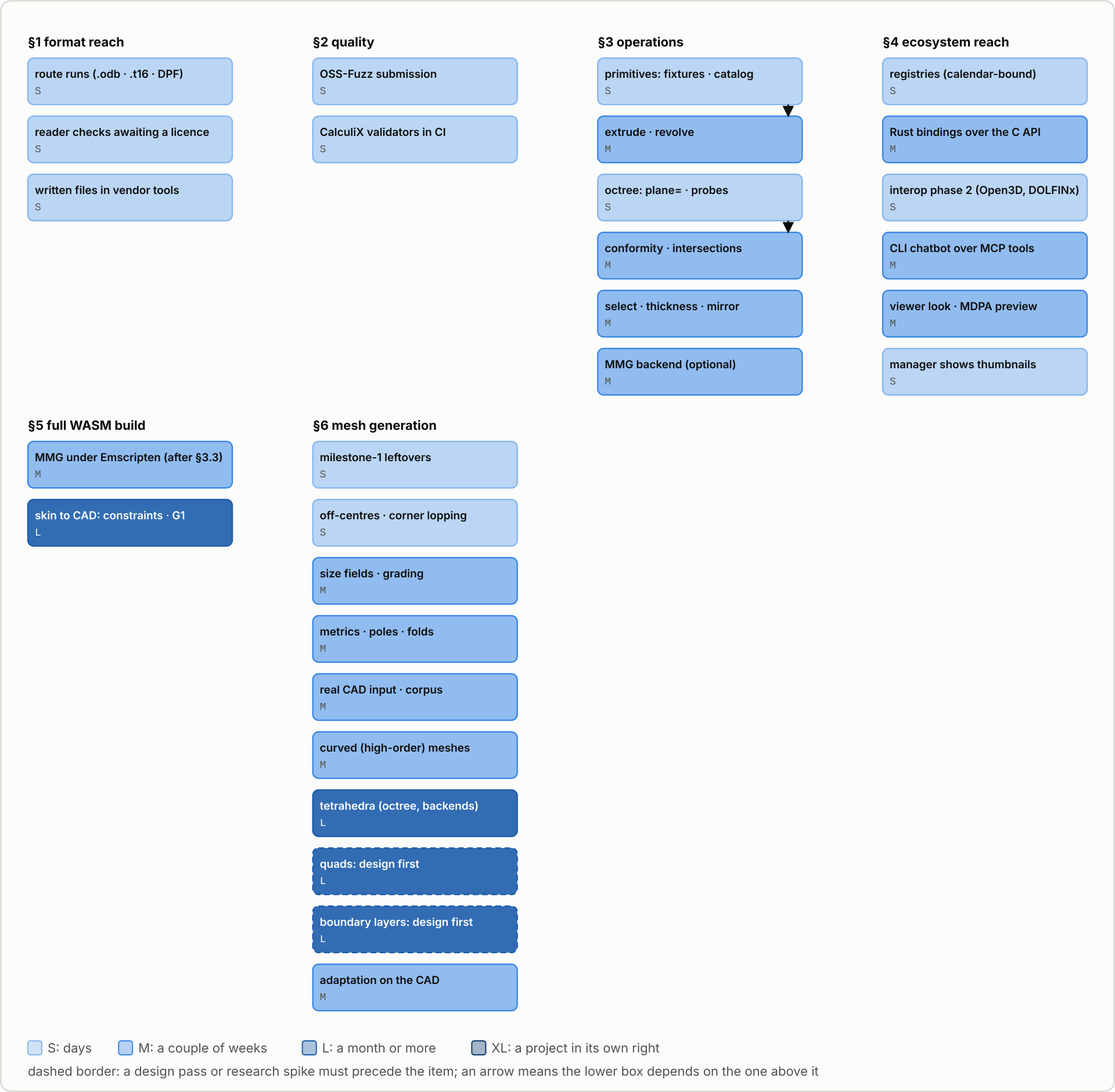
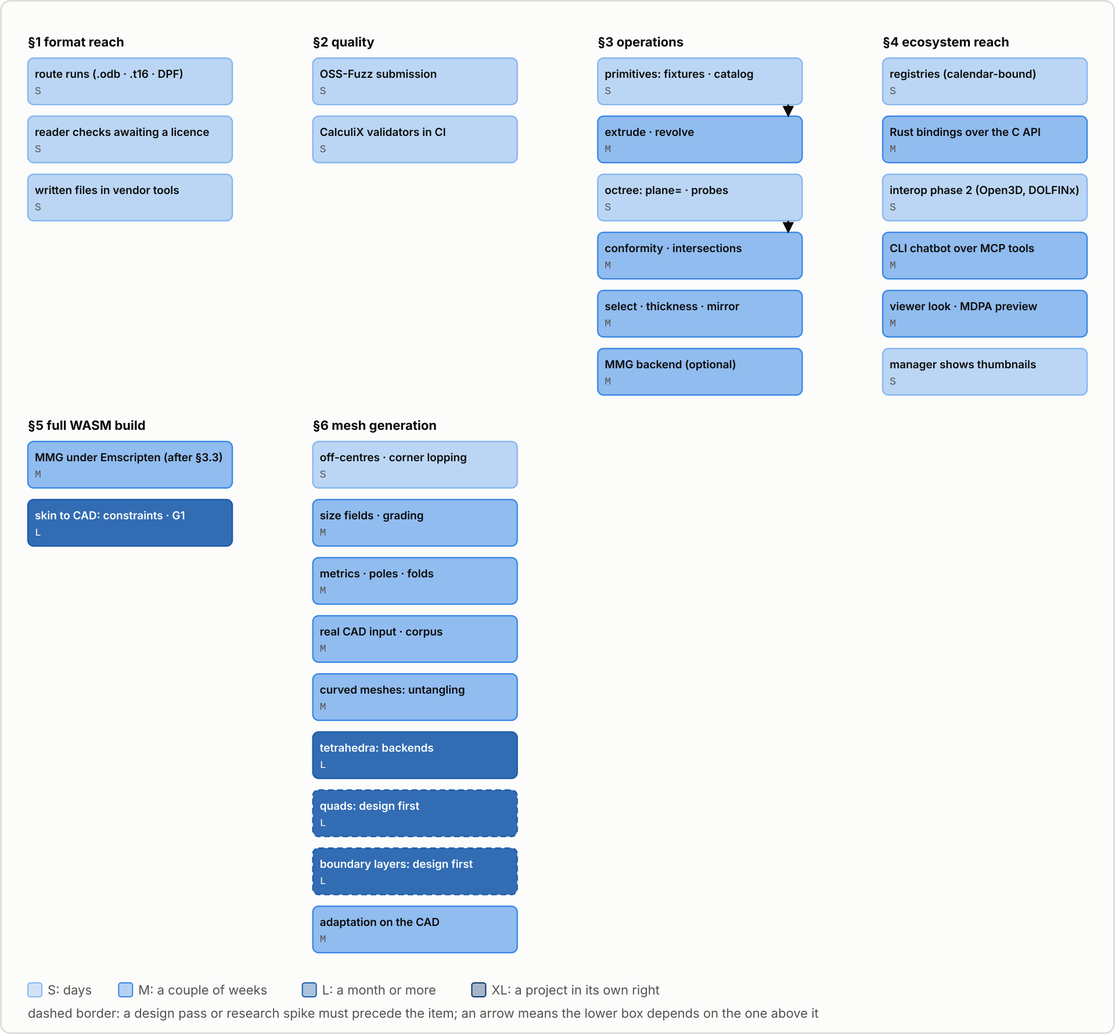
roadmap: close 6.1 and 6.7.1, park 6.6.2 with its measurements
6.1 (the model through the pipeline, one Gmsh physical group per face)
and 6.7.1 (the volume route through octree_mesh) landed and are removed.
6.6.2 was implemented and measured: placing interior nodes at the surface
point nearest the chord lowers quadratic errors by 2 to 20% but raises the
cubic ones 1.5 to 3 times (the roof's cubic L2 order from 3.93 to 3.41),
because the parameter placement is what keeps every node the image of one
lattice under one smooth map. It is recorded as measured and parked, like
the off-centres of 6.2.9, and doc/mesh_cad.md no longer blames the
placement for the cubic area order. The roadmap map is regenerated.

Claude-Session: https://claude.ai/code/session_01TT2up2NQmarWJim25wbSxE

diff --git a/doc/diagrams/figures/flows.py b/doc/diagrams/figures/flows.py
@@ -1064,13 +1064,12 @@ def roadmap_map():
         (
             "§6 mesh generation",
             [
-                ("milestone-1 leftovers", "S"),
                 ("off-centres · corner lopping", "S"),
                 ("size fields · grading", "M"),
                 ("metrics · poles · folds", "M"),
                 ("real CAD input · corpus", "M"),
-                ("curved (high-order) meshes", "M"),
-                ("tetrahedra (octree, backends)", "L"),
+                ("curved meshes: untangling", "M"),
+                ("tetrahedra: backends", "L"),
                 ("quads: design first", "L"),
                 ("boundary layers: design first", "L"),
                 ("adaptation on the CAD", "M"),

diff --git a/doc/roadmap.md b/doc/roadmap.md
@@ -1,6 +1,6 @@
 # meshio++ roadmap
 
-Status at time of writing: **v17.15.0**, ABI 34. What ships is listed where it is documented rather than counted here, where counts went stale: the formats in [supported formats](./formats.md) and the [conformance matrix](./conformance.md), the operations in [architecture](./architecture.md#the-operations-layer), the language surfaces in the [C API](./c_api.md), [Fortran](./fortran.md), [Julia](./julia.md), [R](./r.md) and [WebAssembly](./wasm.md) pages.
+Status at time of writing: **v17.17.0**, ABI 34. What ships is listed where it is documented rather than counted here, where counts went stale: the formats in [supported formats](./formats.md) and the [conformance matrix](./conformance.md), the operations in [architecture](./architecture.md#the-operations-layer), the language surfaces in the [C API](./c_api.md), [Fortran](./fortran.md), [Julia](./julia.md), [R](./r.md) and [WebAssembly](./wasm.md) pages.
 
 This document lists what is *not* built. Nothing here duplicates shipped functionality; where a feature partially exists, the shipped half is named and the gap is stated explicitly. Release history lives in [`CHANGELOG.md`](https://github.com/loumalouomega/meshioplusplus/blob/main/CHANGELOG.md), not here.
 
@@ -185,7 +185,7 @@ The full build shipped in v17.2.0 ([lean and full builds](./wasm.md#lean-and-ful
 
 ## 6. Mesh generation
 
-*Admission: generating a mesh from a CAD model or a boundary, rather than transforming a mesh that exists. The first milestone shipped in v17.13.0: [`mesh_cad_surface`](./mesh_cad.md) ([plan](./mesh_cad_plan.md)) triangulates a B-rep (`BrepInfo`: a Kratos CAD JSON read, or STEP and IGES through OpenCASCADE) into one conforming, watertight surface mesh at a single global size, with no CAD kernel. Each edge is sampled once by arc length and shared by the faces that use it. Each face is a constrained Delaunay triangulation of its parameters, mapped by the Cholesky factor of its mean first fundamental form, filled with an equilateral lattice and lifted onto the surface. Every decision is one of Shewchuk's exact predicates (`detail/predicates`), and a face that cannot be meshed is reported by status and reason. The planar triangulator is public as `triangulate_polygon_2d`. v17.14.0 closed most of what the milestone left: a face's embedded edges are constrained segments of its triangulation, a closed edge whose uses start at different points is rotated onto one corner, loops that cross only at a coarse size are split until they do not, and two fuzz targets cover the mesher and the planar triangulator. v17.15.0 added Delaunay refinement to a minimum angle measured on the surface, shared across faces, and guarded smoothing (6.2), and measures a mesh by its interpolation error (6.11). v17.16.0 added curved quadratic and cubic triangles whose nodes lie on the geometry, each proved valid everywhere inside by a Bézier bound on its Jacobian or kept straight-sided (6.6). What follows is ordered by what each item unlocks. Native work stops at surfaces, their quality and their sizing; volume meshing, quadrangulation and boundary layers stay with optional backends unless a design pass narrows the [non-goal](#non-goals-and-decisions-taken).*
+*Admission: generating a mesh from a CAD model or a boundary, rather than transforming a mesh that exists. The first milestone shipped in v17.13.0: [`mesh_cad_surface`](./mesh_cad.md) ([plan](./mesh_cad_plan.md)) triangulates a B-rep (`BrepInfo`: a Kratos CAD JSON read, or STEP and IGES through OpenCASCADE) into one conforming, watertight surface mesh at a single global size, with no CAD kernel. Each edge is sampled once by arc length and shared by the faces that use it. Each face is a constrained Delaunay triangulation of its parameters, mapped by the Cholesky factor of its mean first fundamental form, filled with an equilateral lattice and lifted onto the surface. Every decision is one of Shewchuk's exact predicates (`detail/predicates`), and a face that cannot be meshed is reported by status and reason. The planar triangulator is public as `triangulate_polygon_2d`. v17.14.0 closed most of what the milestone left: a face's embedded edges are constrained segments of its triangulation, a closed edge whose uses start at different points is rotated onto one corner, loops that cross only at a coarse size are split until they do not, and two fuzz targets cover the mesher and the planar triangulator. v17.15.0 added Delaunay refinement to a minimum angle measured on the surface, shared across faces, and guarded smoothing (6.2), and measures a mesh by its interpolation error (6.11). v17.16.0 added curved quadratic and cubic triangles whose nodes lie on the geometry, each proved valid everywhere inside by a Bézier bound on its Jacobian or kept straight-sided (6.6). v17.17.0 closed what the first milestone left (6.1): the pipeline carries the CAD model a read returns to a `MeshCadSurface` step, and Gmsh 4.1 output gives each face its own physical surface; it documented and measured the volume route through `octree_mesh` (6.7.1), and measured surface-placed interior nodes on the curved elements and parked them (6.6.2). What follows is ordered by what each item unlocks. Native work stops at surfaces, their quality and their sizing; volume meshing, quadrangulation and boundary layers stay with optional backends unless a design pass narrows the [non-goal](#non-goals-and-decisions-taken).*
 
 The order follows the one production CAD meshers settled on, bottom-up from model vertices to edges, faces and volumes (Schöberl 1997, Geuzaine and Remacle 2009, the OpenCASCADE mesh guide), and the order in which the Delaunay literature builds its guarantees: a valid constrained triangulation first (shipped), then a bound on angles by refinement (6.2, shipped), then a size that varies (6.3), then a metric that varies inside a face (6.4), each needing the one before (Cheng, Dey and Shewchuk 2012, chapters 1 to 6; Frey and George 2008). Robustness on real models (6.5) is measured beside all of them, since it is where meshers lose most of their failures in practice. The citations are listed under [references](#references-for-mesh-generation) at the end of this section; an author and year in an item points there.
 
@@ -196,10 +196,6 @@ Landing an item:
 - Growing `MeshCadSurfaceOptions` is a layout change. ABI 34 (v17.15.0) laid out the fields of 6.2, 6.3, 6.4 and 6.6 in one bump (`mInsertion`, `mGrading`, `mCurvatureDeviation`, `mCellsAcrossGaps`, `mMetric`, `mPoleRings`, `mReparamConditionNumber`, `mOrder`), refused by name until their item lands, so landing one needs no further bump (`mOrder` landed in v17.16.0); a field none of them names takes the next. The C struct grows within its tail: `int64_t reserved[3]` (24 bytes) is left in the options and `reserved[3]` in the report, scalars only. Arrays (a size per face, a background field) need their own entry points, never the struct.
 - Test the kernel in C++ (`tests/cpp/test_mesh_cad.cpp`, `test_cdt2d.cpp`) as well as through Python, on the hand-built solids of `tests/cpp/brep_solids.hpp` and the CAD JSON fixtures of `tools/gen_cad_json_fixtures.py`. Keep the OpenCASCADE oracle (`MeshCadOcct.*`) passing in both OCCT CI legs.
 - Write an algorithm from its paper, never from another library's code, and name the paper in the implementing header and in `doc/mesh_cad.md#references` (the predicates precedent, [THIRD_PARTY_NOTICES](https://github.com/loumalouomega/meshioplusplus/blob/main/THIRD_PARTY_NOTICES.md)). An item that states a guarantee from a paper also states the paper's preconditions (input angles, a size function's Lipschitz constant) and tests both sides of them.
-
-- **6.1 What the first milestone leaves.** Each of these is reported today, never meshed wrong ([limitations](./mesh_cad.md#limitations)). **S each**
-  - **6.1.1 The model through the pipeline.** The pipeline carries a `Mesh`, not the `BrepInfo` a CAD read returns beside it, so `MeshCadSurface` (like the `iga_*` operations) is refused by name. Carrying the read's side channel from `Input` to the first step that asks for it, and dropping it at the first step that changes the mesh, would give both a pipeline step. Shared with the isogeometric layer. **S–M**
-  - **6.1.2 One physical group per face in Gmsh output.** Every face is in one `triangle` block, so the Gmsh writer cannot give each face its own physical group, and the faces travel only as `cad:face` data ([output](./mesh_cad.md#output-and-report)). The `face:<k>` cell regions already name them. **Verify first** whether the Gmsh writer maps cell regions to physical groups; if it does, the gap is that `mesh_cad_surface`'s regions do not reach it, and if it does not, the writer gains that mapping, which any region-carrying mesh needs. Probe: a box meshed and written to Gmsh 4.1 opens with six named physical surfaces.
 
 - **6.2 Quality: what refinement leaves.** v17.15.0 refines every face by Ruppert's algorithm with Chew's circumcentres, judged on the surface, with boundary splits shared across faces, concentric shells around small input angles, a deterministic worst-first order and guarded Laplacian or ODT smoothing (`min_angle`, `smooth_iterations`; [how it works](./mesh_cad.md#how-it-works)). One piece remains, and off-centres were measured and parked. **S–M**
   - **6.2.3 Small input angles on curved input: the stated bound.** Concentric shells and the terminator keep refinement finite on the plane, and each corner under 60 degrees is reported with the smallest angle it forces, measured. Pav and Walkington (2005) prove termination for curved input with small angles by lopping the corners off first, the case the curved trims of a CAD face are, and bound the angles they cannot fix; landing their corner lopping would let the report state that bound beside the measured one instead of leaving termination on curved faces to `max_points` and the insertion-radius declines. Probe: a face with a 5-degree corner between two circular trims ends under the stated bound with no budget warning.
@@ -229,12 +225,11 @@ Landing an item:
   - **6.5.5 What a corpus run measures.** Per model: faces meshed and failed by status, `num_open_edges` on closed solids, `max_edge_gap`, the extreme angles and the [`compute_quality`](./quality.md) histograms (Knupp's algebraic metrics, the scaled Jacobian and aspect ratio; Knupp 2001), the Hausdorff distance to the model sampled densely, points, time and peak memory, beside the same for `BRepMesh` and Gmsh at a matched size. The first published run is the baseline: a change that lowers the success rate or raises a failure class states why in its `CHANGELOG.md` entry, the rule of [landing a performance change](./benchmarks.md#landing-a-performance-change). Probe: the job fails when a model that meshed in the baseline stops meshing, so a regression cannot hide in an average.
   - **6.5.6 A taxonomy of the failures.** Classify every failure of the corpus run by its geometric cause — a gap beyond tolerance, an edge used once, a trim outside its patch, a self-intersecting loop, a degenerate patch, an edge below tolerance that is not a pole — from the face reports and the measured gaps, and publish the counts. The CAD-repair literature has catalogued these classes for decades (Butlin and Stops 1996), and a count per class is what decides whether 6.5.1, 6.5.2 or 6.4.4 is the next item worth landing. It changes no output, so it can land with 6.5.3.
 
-- **6.6 Curved surface meshes: what is left.** v17.16.0 writes `order` 2 and 3 as `triangle6` and `triangle10` (with `line3` and `line4`) whose nodes lie on the exact surfaces and edges, each element proved valid everywhere inside by a Bézier bound on its Jacobian (Johnen, Remacle and Geuzaine 2013) or kept straight-sided and counted ([curved elements](./mesh_cad.md#how-it-works)). Area and volume converge at order 4 for both, and interpolation at the optimal orders 3 and 4 on the Scordelis–Lo roof; what is left is where the nodes go and what becomes of an element that folds.
-  - **6.6.2 Interior mid-edge nodes.** The parameter midpoint lifts to a point that is not the surface's midpoint of the edge where the metric varies, which skews the element. Place an interior mid-edge node at the point of the surface closest to the 3-D chord's midpoint, a Newton step from the parameter midpoint (Sherwin and Peiró 2002), and fall back to the parameter midpoint when the step leaves the triangle's parameter image. The cubic elements fall short today, plausibly from this placement: their area and volume converge at order 4, not 6, and their interpolation on the sphere at 3.7 away from the poles, not 4. Probe: on the Scordelis–Lo roof the mid-edge nodes' distances to both ends differ by less than a stated fraction of the edge, and the sphere's cubic orders rise.
+- **6.6 Curved surface meshes: what is left.** v17.16.0 writes `order` 2 and 3 as `triangle6` and `triangle10` (with `line3` and `line4`) whose nodes lie on the exact surfaces and edges, each element proved valid everywhere inside by a Bézier bound on its Jacobian (Johnen, Remacle and Geuzaine 2013) or kept straight-sided and counted ([curved elements](./mesh_cad.md#how-it-works)). Area and volume converge at order 4 for both, and interpolation at the optimal orders 3 and 4 on the Scordelis–Lo roof; what is left is what becomes of an element that folds; where the interior nodes go was measured and parked (6.6.2).
+  - **6.6.2 Interior mid-edge nodes: measured, parked.** The guess was that the parameter fraction at which an interior edge node is lifted skews the element where the metric varies, and holds the cubic elements to area order 4 and interpolation order 3.7. Placing each interior edge node at the surface point nearest the chord's point at its fraction (Gauss–Newton from the parameter fraction, Sherwin and Peiró 2002), and the cubic face node at the surface point nearest the cubic blend of its edge nodes, was implemented and measured in October 2026 against the parameter placement: quadratic errors fell by 2 to 20% at unchanged orders (the sphere's area at `h = 0.1` from 1.0e-5 to 7.9e-6), and cubic ones rose 1.5 to 3 times (the capped cylinder's area from 3.4e-7 to 1.0e-6, the roof's L2 interpolation order between `h` = 2 and 1 from 3.93 to 3.41); keeping the face node at the parameter centroid instead folded elements near the sphere's poles and dropped the roof's cubic order to 3.1. The parameter placement makes every node the image of one lattice under one smooth map, which the cubic's accuracy rests on, so the shortfall is not the placement. Nothing changed. Worth measuring again on a face whose metric varies by orders of magnitude inside an element, where a lattice in the parameters is no longer close to one on the surface, or with 6.4.1's metric, which changes what the lattice is.
   - **6.6.3 Untangling instead of straightening.** Keeping an invalid element straight-sided loses the geometric accuracy the order bought, at exactly the elements on highly curved boundaries. The follow-up moves interior high-order nodes to maximise the worst scaled Jacobian while boundary nodes stay on the CAD (Toulorge et al. 2013), or treats the mesh as an elastic solid deformed onto the curved boundary (Persson and Peraire 2009; Moxey et al. 2016 for a thermo-elastic variant). Both are optimisation over a mesh the core already holds, so they stay native; a design pass picks one before it starts. **M**
 
-- **6.7 Volume meshes from the watertight surface.** A closed `mesh_cad_surface` result is the input a tetrahedral mesher needs. **L**
-  - **6.7.1 The native route that already exists.** [`octree_mesh`](./octree_mesh.md) meshes the inside of any skin, so `octree_mesh(mesh_cad_surface(model, h))` gives conforming graded tetrahedra today, fitted to the skin by snapping rather than keeping its triangles. Document it in `doc/mesh_cad.md` and notebook 42 with a probe (the sphere's volume within the octree mesher's stated error) before any backend lands. Its stuffed tetrahedra follow isosurface stuffing, whose dihedral angles are bounded away from 0 and 180 degrees by construction (Labelle and Shewchuk 2007); the documentation states that bound beside the boundary error it trades for it.
+- **6.7 Volume meshes from the watertight surface.** A closed `mesh_cad_surface` result is the input a tetrahedral mesher needs. The native route through [`octree_mesh`](./octree_mesh.md) is documented and measured since v17.17.0 ([volume meshes](./mesh_cad.md#volume-meshes)): under uniform skin grading its tetrahedra keep inside Labelle and Shewchuk's dihedral bound, fitted to the skin within about 0.03 `h` rather than keeping its triangles. What follows is the route that keeps them. **L**
   - **6.7.2 The backend contract.** A `tetrahedralize` operation (`operations/tetrahedralize.hpp`) takes a closed, manifold, consistently oriented triangle surface: it refuses an open, non-manifold or misoriented one by name, using `mesh_cad_surface`'s own counts. It returns tetrahedra with the surface's triangles kept exactly (`preserve_boundary=True`, where the backend can) or within a reported Hausdorff distance (an envelope mesher), plus `max_volume`, a quality target and `max_cells`. It follows the KaHIP pattern: off by default, one `MESHIOPLUSPLUS_WITH_*` flag per backend, bring-your-own, never vendored or downloaded, `Unsupported` naming the flag where absent, no numpy twin. Because it takes a mesh and returns one, it fits the pipeline as a `Tetrahedralize` step, unlike `mesh_cad_surface`.
   - **6.7.3 Candidates, by licence.** Geogram (BSD-3): its Delaunay kernel is permissive. Whether its constrained tetrahedralisation of a closed surface runs without its optional TetGen component, which is AGPL, must be verified first. fTetWild (MPL-2.0): robust to dirty input because it meshes within an envelope around the surface, so it does not keep the triangles exactly. It depends on Geogram and libigl, whose licences and size need checking first. Netgen (LGPL-2.1): advancing front with Delaunay, quality tetrahedra, and its own OpenCASCADE route. MPL and LGPL code is linked, never vendored. Excluded: TetGen (AGPL-3.0), CGAL's `Mesh_3` (GPL), and Gmsh (GPL) except as a file route through its executable, the [vendor routes](./vendor_routes.md) pattern. A fourth candidate since 2023 is the exact constrained Delaunay tetrahedralisation of Diazzi, Panozzo, Vaxman and Attene (2023), which recovers every input triangle without approximation using Attene's indirect predicates (Attene 2020) and meshed all 4408 valid models of Thingi10K in their tests: **verify first** the licence of its reference code (github.com/MarcoAttene/CDT †) and of the indirect-predicates library it builds on; if both are permissive it is the backend that keeps `preserve_boundary=True` on every valid input, which the envelope meshers cannot.
   - **6.7.4 Regions and data.** Side regions come from the surface's `cad:face` (one per CAD face), and cell regions from enclosed volumes: nested or touching shells are told apart by the fast winding number `octree_mesh` already uses, from a seed point per region. `BrepInfo` has no shells, so a multi-body model gets one region per enclosed component.
@@ -407,4 +402,4 @@ Open work only; what shipped is in `CHANGELOG.md`.
 5. **The MMG backend ([§3](#_3-operations))** — Medit `.sol` first, since it needs no link and opens the file route; then `adapt`, `discretize_levelset`, `mesh_domain` and, with ELAS, `move`.
 6. **Registration ([§4](#_4-ecosystem-reach))** — calendar-bound, so start the submissions early and let them run alongside everything else; the viewer's look (4.5) and the dataset manager's thumbnails (4.6) need no decision first and can run beside them.
 7. **MMG under Emscripten ([§5](#_5-the-full-webassembly-build))** — after the native MMG backend of §3.3, through the full build v17.2.0 shipped.
-8. **Mesh generation ([§6](#_6-mesh-generation))** — what the first milestone still leaves (6.1: the model through the pipeline and one Gmsh physical group per face) is small and independent, so it can go first. Refinement (6.2) landed in v17.15.0 with the interpolation-error check (6.11); the stated small-angle bound (6.2.3) remains beside it, and off-centres (6.2.9) were measured and parked: on lattice-seeded faces they change nothing. Size fields (6.3) come next, since every later quality claim rests on them and on refinement, then metrics (6.4), with the reparametrisation of unusable faces (6.4.4) after them. The real-CAD corpus (6.5) and its failure taxonomy (6.5.6) should start early, since they measure every other item and decide which of 6.5.1, 6.5.2 and 6.4.4 is worth landing next; the rest of the interpolation-error check (6.11) lands with 6.3, so sizing is judged by accuracy as well as angles. The volume route through `octree_mesh` (6.7.1) needs only documentation; the tetrahedral backends follow their licence checks, measured on the Thingi10K corpus (6.7.8). Curved meshes (6.6) landed in v17.16.0 with their validity beyond the nodes; placing their interior nodes (6.6.2) is small, and their untangling (6.6.3) follows a design pass. Quads (6.8) and boundary layers (6.9) start with their design passes once 6.2 and 6.3 have landed, and boundary layers after `extrude` (3.1.2). Adaptation on the CAD (6.10) follows MMG (3.3), closest-point projection in the isogeometric layer and, for anisotropic metrics, 6.4.1.
+8. **Mesh generation ([§6](#_6-mesh-generation))** — refinement (6.2) landed in v17.15.0 with the interpolation-error check (6.11); the stated small-angle bound (6.2.3) remains beside it, and off-centres (6.2.9) were measured and parked: on lattice-seeded faces they change nothing. Size fields (6.3) come next, since every later quality claim rests on them and on refinement, then metrics (6.4), with the reparametrisation of unusable faces (6.4.4) after them. The real-CAD corpus (6.5) and its failure taxonomy (6.5.6) should start early, since they measure every other item and decide which of 6.5.1, 6.5.2 and 6.4.4 is worth landing next; the rest of the interpolation-error check (6.11) lands with 6.3, so sizing is judged by accuracy as well as angles. The volume route through `octree_mesh` is documented (v17.17.0); the tetrahedral backends follow their licence checks, measured on the Thingi10K corpus (6.7.8). Curved meshes (6.6) landed in v17.16.0 with their validity beyond the nodes; placing their interior nodes on the surface (6.6.2) was measured and parked in v17.17.0, and their untangling (6.6.3) follows a design pass. Quads (6.8) and boundary layers (6.9) start with their design passes once 6.2 and 6.3 have landed, and boundary layers after `extrude` (3.1.2). Adaptation on the CAD (6.10) follows MMG (3.3), closest-point projection in the isogeometric layer and, for anisotropic metrics, 6.4.1.

diff --git a/doc/mesh_cad.md b/doc/mesh_cad.md
@@ -75,7 +75,6 @@ The mesh has the points and one `triangle` block (and the `line` block of the ed
 
 ![A capped cylinder meshed by a pipeline's MeshCadSurface step, written to Gmsh 4.1 and read back: one physical surface per CAD face](/images/mesh_cad_gmsh_groups.png)
 
-
 The report (`return_report=True`; `MeshCadSurfaceResult` in C++) has the counts (`num_points`, `num_triangles`, `num_edge_segments`, `num_faces`, `num_failed`, `num_edges`), the conformity of the result (`num_open_edges`, triangle edges used once: zero on a closed solid, the model's own boundary on an open one; `num_non_manifold_edges`; `num_misoriented_edges`, used twice the same way round), `num_degenerate_dropped`, the extreme angles and edge lengths, `tolerance`, `max_edge_gap`, one record per face (`status`, `reason`, counts, extremes) and the warnings. Refinement adds `num_refinement_points` (inside the faces and on their edges), `num_faces_below_bound`, `num_smoothed` and `angle_histogram`, every angle of every triangle on the surface in 18 bins of 10 degrees; each face record adds `num_refinement_points`, `num_smoothed`, `below_bound` (a triangle under `min_angle`), `bound_deg` (the smallest angle of its triangles that no corner forces and no stretched region leaves: at least `min_angle` where refinement reached its bound), `min_input_angle_deg` and `corners`, each corner under 60 degrees or pole with its `point`, parameters, position, `angle_deg`, `min_forced_deg`, `reach` and `pole`. `num_curved_straightened` counts the curved elements kept straight-sided; the angles, edge lengths and histogram are those of the straight triangles through the elements' corners.
 
 **A face that cannot be meshed is left out and reported, never meshed wrong.** Its status names why: `unsupported` (an invalid surface or trim, a trim that leaves its surface's knot range by more than a thousandth of it, where the patch would be evaluated clamped and points would lie off the face, or parameters that, mapped to the face's plane, fall outside the range `[2^-128, 2^128]` the exact predicates hold in), `open_loop` (its loops do not close, or a corner the topology joins it to lies elsewhere), `self_intersecting` (its boundary meets itself in its parameters where the curves themselves meet, such as a hole tangent to the rim, or still crosses after 64 rounds of splits), `degenerate`, `projection_failed` (an edge's uses lie farther apart than `h / 4`, or a closed edge's uses start at different points and none of them can be started elsewhere), `budget_exceeded`, `empty`. The face's edges stay in the `line` block, and `num_open_edges` shows the hole.
@@ -100,7 +99,7 @@ This first milestone deliberately leaves out:
 - **Poles.** A pole is a fan apex, ungraded; refinement leaves its reach to graded poles (6.4.2) and reports it, so on the sphere the triangles near the poles stay below `min_angle`. The reach is where the face's latitude–longitude parameters stretch more than twofold, so it does not shrink with `h`: 0.375 on the unit sphere, 7.5% to 10% of its area at `h` from 0.2 to 0.05, where 40% to 47% of the triangles stay under 25 degrees at `min_angle = 25`.
 - **Embedded edges that meet.** Embedded edges that cross each other (stiffeners in a grid) or end on the boundary between its corners are left out with a warning, not split where they meet.
 - **Touching curves.** Loops whose curves touch, such as a hole tangent to the rim, stay `self_intersecting`.
-- **Curved elements.** A node inside a face sits at a parameter fraction, not where the surface's own arc length puts it, which bounds the convergence of cubic elements at about the quadratic's fourth order ([roadmap 6.6.2](/roadmap#_6-mesh-generation)); an element that folds is made straight-sided, not untangled by moving its nodes (6.6.3).
+- **Curved elements.** The cubic elements' area converges at order 4, not 6. A node inside a face sits at a parameter fraction, and placing it at the surface point nearest the chord instead was measured and made the cubic elements worse, not better (the parameter placement keeps every node the image of one lattice under one smooth map; [roadmap 6.6.2](/roadmap#_6-mesh-generation)), so the shortfall is not the placement. An element that folds is made straight-sided, not untangled by moving its nodes (6.6.3).
 - **Other elements.** No quadrilaterals and no boundary layers; volume meshes come from [`octree_mesh`](#volume-meshes), fitted to the skin rather than keeping its triangles.
 
 [Roadmap §6](/roadmap#_6-mesh-generation) lists what comes next. Everything is serial within a face; faces and edges run in parallel and the output is byte-identical across backends and thread counts.
@@ -127,7 +126,7 @@ The predicates are checked against 128-bit integer determinants, including colli
 
 Refinement to 25 degrees costs 1.0 to 5.4 times the unrefined meshing on the CAD JSON fixtures (about 4 times on most, the sphere at `h = 0.05` 164 ms against 30) and adds under 8% more points (22% on the near-hole plate at `h = 0.3`); two smoothing passes about double that. The `meshioplusplus_bench_ops` row `mesh_cad_surface_refined` is hashed by the determinism job.
 
-Interpolation error, the measure a mesh is for (Shewchuk 2002), is checked too (`tests/cpp/test_mesh_cad_interpolation.cpp`): the piecewise-linear interpolant of a smooth field is compared with the field at the points of the 7-point degree-5 rule of Dunavant (1985) on each triangle, the field evaluated in space there, as `h` halves. On the sphere (`sin 2x cos 1.5y + exp(z/2)`) the L2 error's observed orders are 2.01 and 2.03 unrefined and 2.06 and 2.03 at 25 degrees, and the maximum error's, away from the poles, 2.12 and 1.97; on the Scordelis–Lo roof the L2 orders are 2.05 and 2.01 and the maximum's 2.08 and 1.98; a `tanh` layer across the sphere converges at 1.90 before a size field (6.3) resolves it. The test pins the L2 orders to 2 ± 0.2 and the maximum's to 2 ± 0.35, beside the angle histogram that the report gives for the same meshes. The curved elements are measured the same way, their own Lagrange interpolant on the curved element integrated by an 8 by 8 collapsed Gauss–Legendre rule: on the roof the L2 orders are 3.09 and 3.05 for quadratic and 4.09 and 3.93 for cubic elements; on the sphere, away from the poles, 3.00 and 3.04, and 3.73 and 3.76, the cubic short of 4 as its area is short of 6 (placing the interior nodes by the surface rather than its parameters, 6.6.2, is the next step to try); over the whole sphere the poles' fans hold them to 2.76 and 2.53, and 3.73 and 3.43, until graded poles (6.4.2). The test pins these with margin, and every order below the one beneath it at every size. Two fuzz targets feed `mesh_cad_surface` mutated CAD JSON models and `triangulate_polygon_2d` near-duplicate, near-collinear and touching polygons, and expect a result or a reported face, never a crash or a sanitizer report ([fuzzing](/fuzzing#the-operation-targets)).
+Interpolation error, the measure a mesh is for (Shewchuk 2002), is checked too (`tests/cpp/test_mesh_cad_interpolation.cpp`): the piecewise-linear interpolant of a smooth field is compared with the field at the points of the 7-point degree-5 rule of Dunavant (1985) on each triangle, the field evaluated in space there, as `h` halves. On the sphere (`sin 2x cos 1.5y + exp(z/2)`) the L2 error's observed orders are 2.01 and 2.03 unrefined and 2.06 and 2.03 at 25 degrees, and the maximum error's, away from the poles, 2.12 and 1.97; on the Scordelis–Lo roof the L2 orders are 2.05 and 2.01 and the maximum's 2.08 and 1.98; a `tanh` layer across the sphere converges at 1.90 before a size field (6.3) resolves it. The test pins the L2 orders to 2 ± 0.2 and the maximum's to 2 ± 0.35, beside the angle histogram that the report gives for the same meshes. The curved elements are measured the same way, their own Lagrange interpolant on the curved element integrated by an 8 by 8 collapsed Gauss–Legendre rule: on the roof the L2 orders are 3.09 and 3.05 for quadratic and 4.09 and 3.93 for cubic elements; on the sphere, away from the poles, 3.00 and 3.04, and 3.73 and 3.76, the cubic short of 4 as its area is short of 6 (placing the interior nodes by the surface rather than its parameters was measured and parked: it lowered the cubic orders, [roadmap 6.6.2](/roadmap#_6-mesh-generation)); over the whole sphere the poles' fans hold them to 2.76 and 2.53, and 3.73 and 3.43, until graded poles (6.4.2). The test pins these with margin, and every order below the one beneath it at every size. Two fuzz targets feed `mesh_cad_surface` mutated CAD JSON models and `triangulate_polygon_2d` near-duplicate, near-collinear and touching polygons, and expect a result or a reported face, never a crash or a sanitizer report ([fuzzing](/fuzzing#the-operation-targets)).
 
 Curved elements are checked both sides of the validity test (`tests/cpp/test_curved_triangle.cpp`): the shape functions interpolate their nodes and the identity element has `J = 1`; the Bernstein coefficients reproduce known polynomials of degree 2 and 4; a quadratic and a cubic element whose `J` is positive at every node but negative inside (sampled on a lattice of 4186 points) is proved invalid, and so is one whose mid-edge node is pushed across the opposite edge; an element bent onto a cylinder is proved valid without reaching the depth limit. A quadratic element with a single mid-edge node moved was found valid wherever its nodes pass, over a 121 by 121 grid of positions, so the probe moves three. The meshes (`tests/cpp/test_mesh_cad_curved.cpp`, `tests/python/test_mesh_cad.py`) put every node of the sphere's quadratic and cubic elements on the sphere to `1e-12`, share every edge node between exactly the two elements or the element and the line that use it, keep the linear mesh's points as their first points, and are the same over thread counts and a shuffled face order. Area and enclosed volume, integrated over the curved elements by an 8 by 8 collapsed Gauss–Legendre rule, converge on the capped cylinder and the sphere (h = 0.4, 0.2, 0.1) at observed orders of 2.0 to 2.1 for linear elements, 3.9 to 4.3 for quadratic and 4.0 to 4.3 for cubic, the cubic errors 6 to 20 times smaller than the quadratic; the test pins 1.8 and 3.5. The coarse capped cylinder at `h = 1.75` with cubic elements folds some, which are made straight-sided, warned and counted, every element written then valid; at `h = 0.3` none folds.
 
